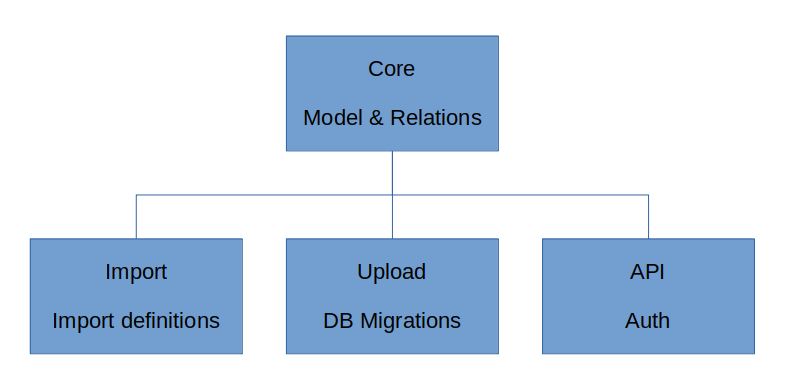
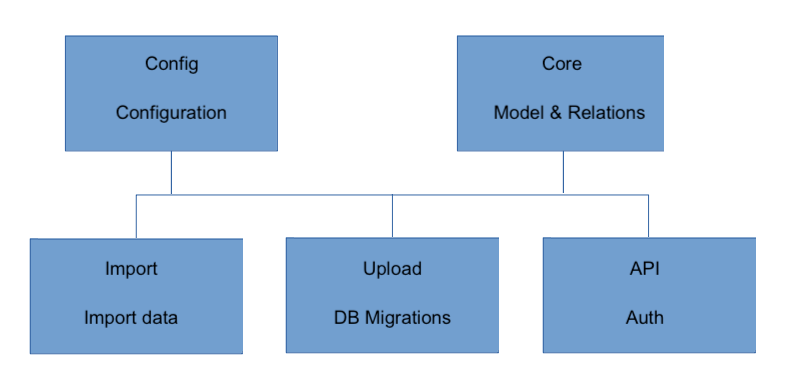
Update Add dataset documentation
GOB-Config wasn't added to this section of the documenation yet.

diff --git a/docs/new_dataset.md b/docs/new_dataset.md
@@ -38,12 +38,12 @@ When the model and the relations have been defined a new version of GOB-Core as 
 The Import, Upload and API modules need to be updated with the new release.
 GOB-Upload is the “owner” of the storage database and will have to generate and run the required migration:
 - alembic revision --autogenerate -m "any data"
-- controleer de migratie
+- validate the migration
 - start gobupload
 
 ## Import data definition
 
-- [GOB Data Import definitions](https://github.com/Amsterdam/GOB-Import/tree/develop/src/data)
+- [GOB Data Import definitions](https://github.com/Amsterdam/GOB-Config/tree/master/gobconfig/import_)
 
 With the new release of GOB-Core GOB knows the new data collection.
 The next part is to import the data from a specific source.
